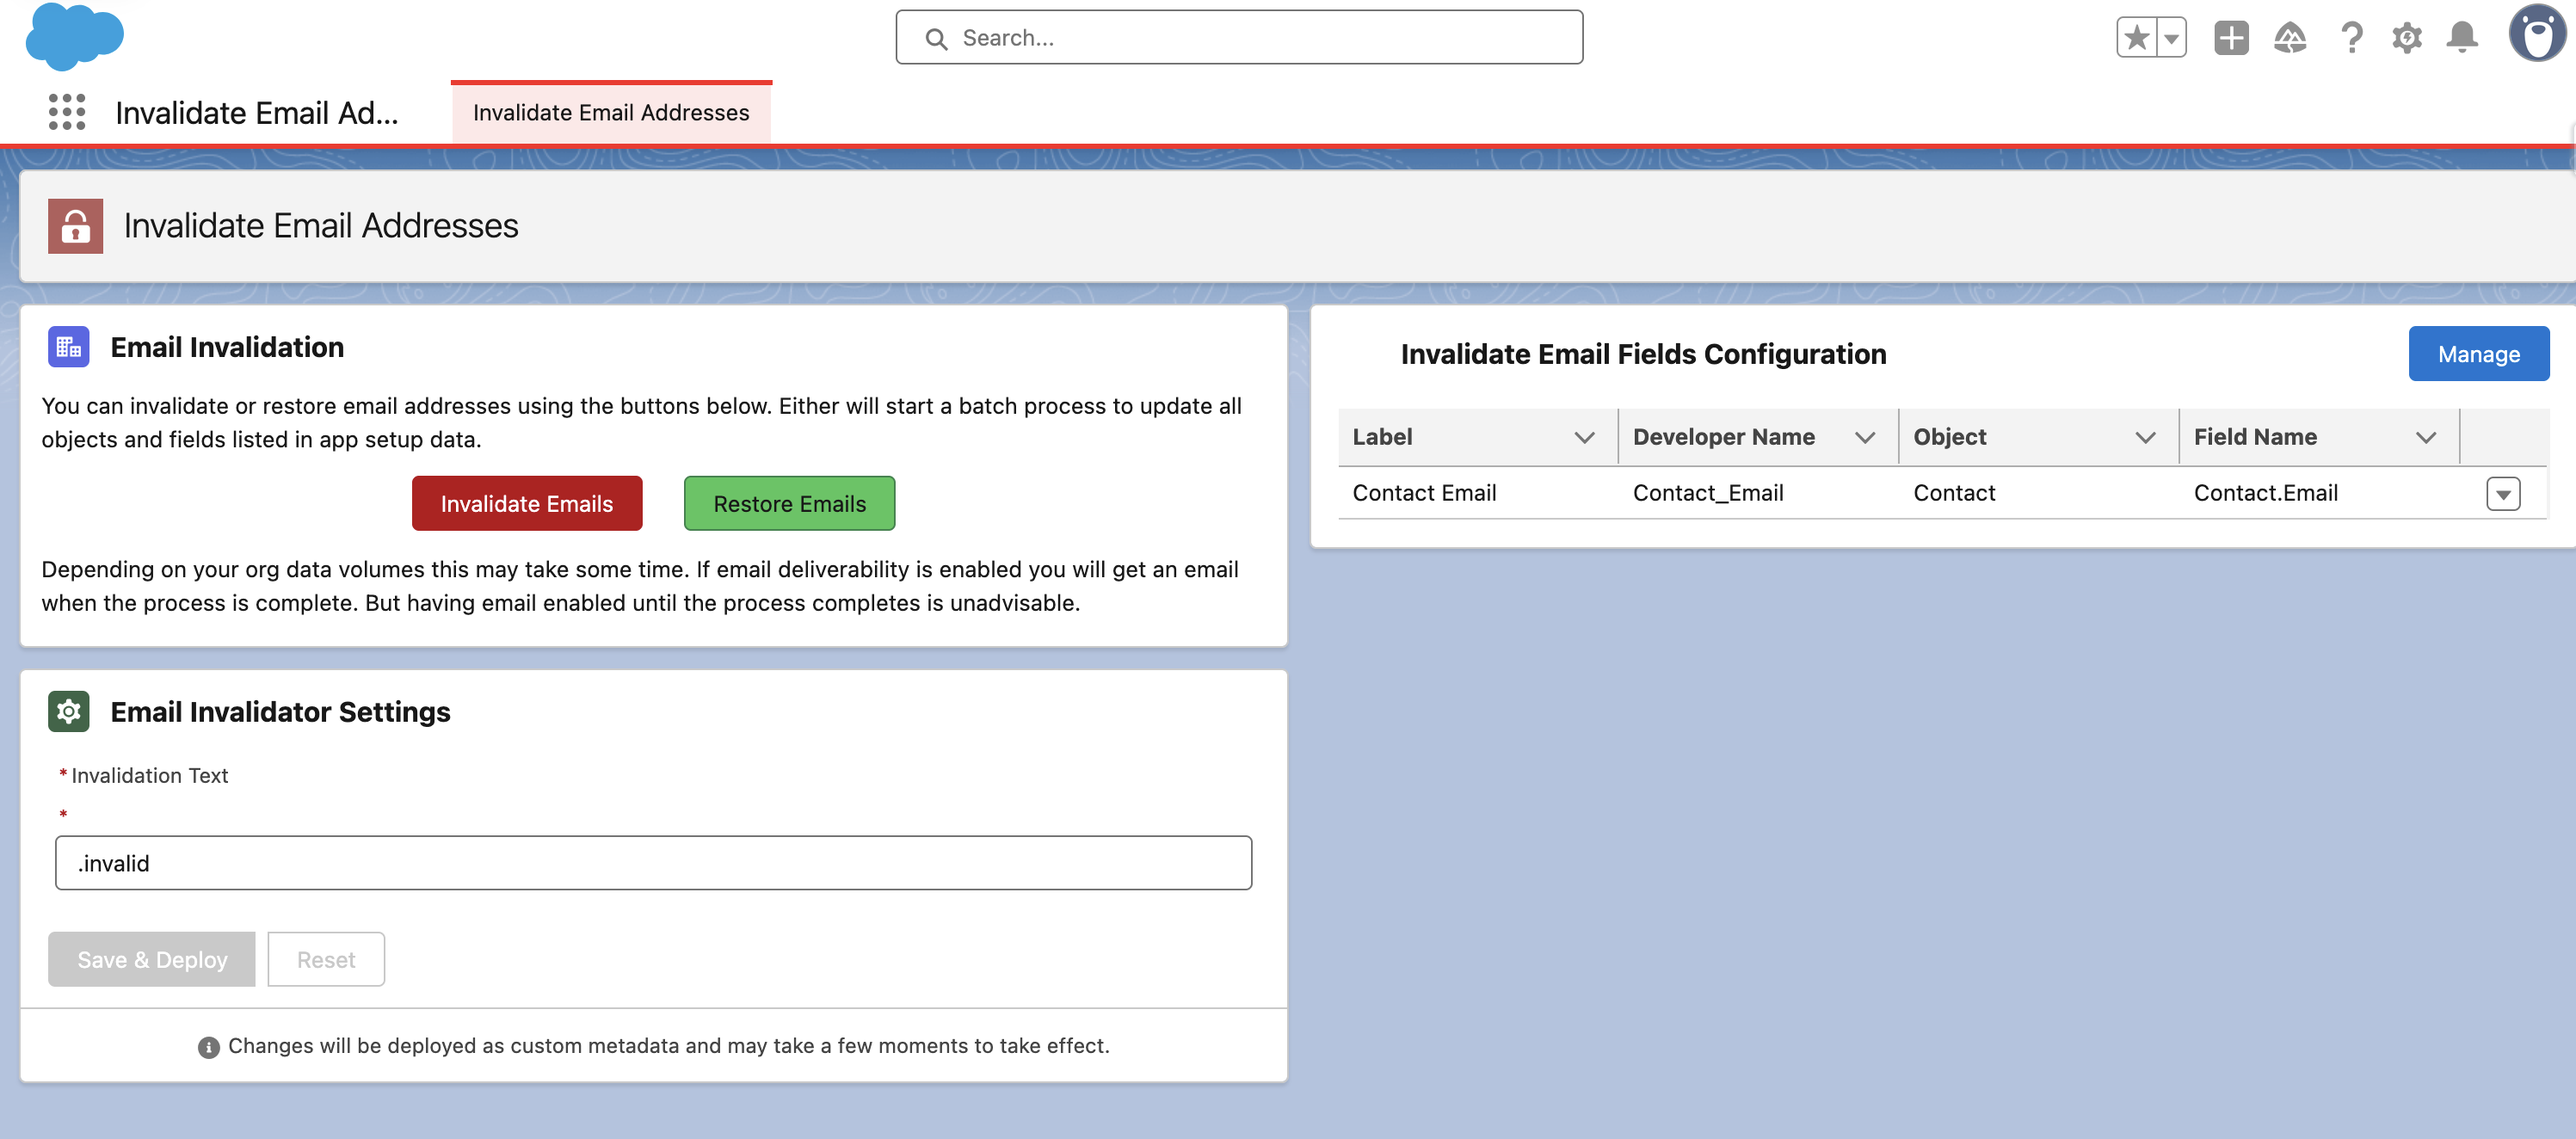
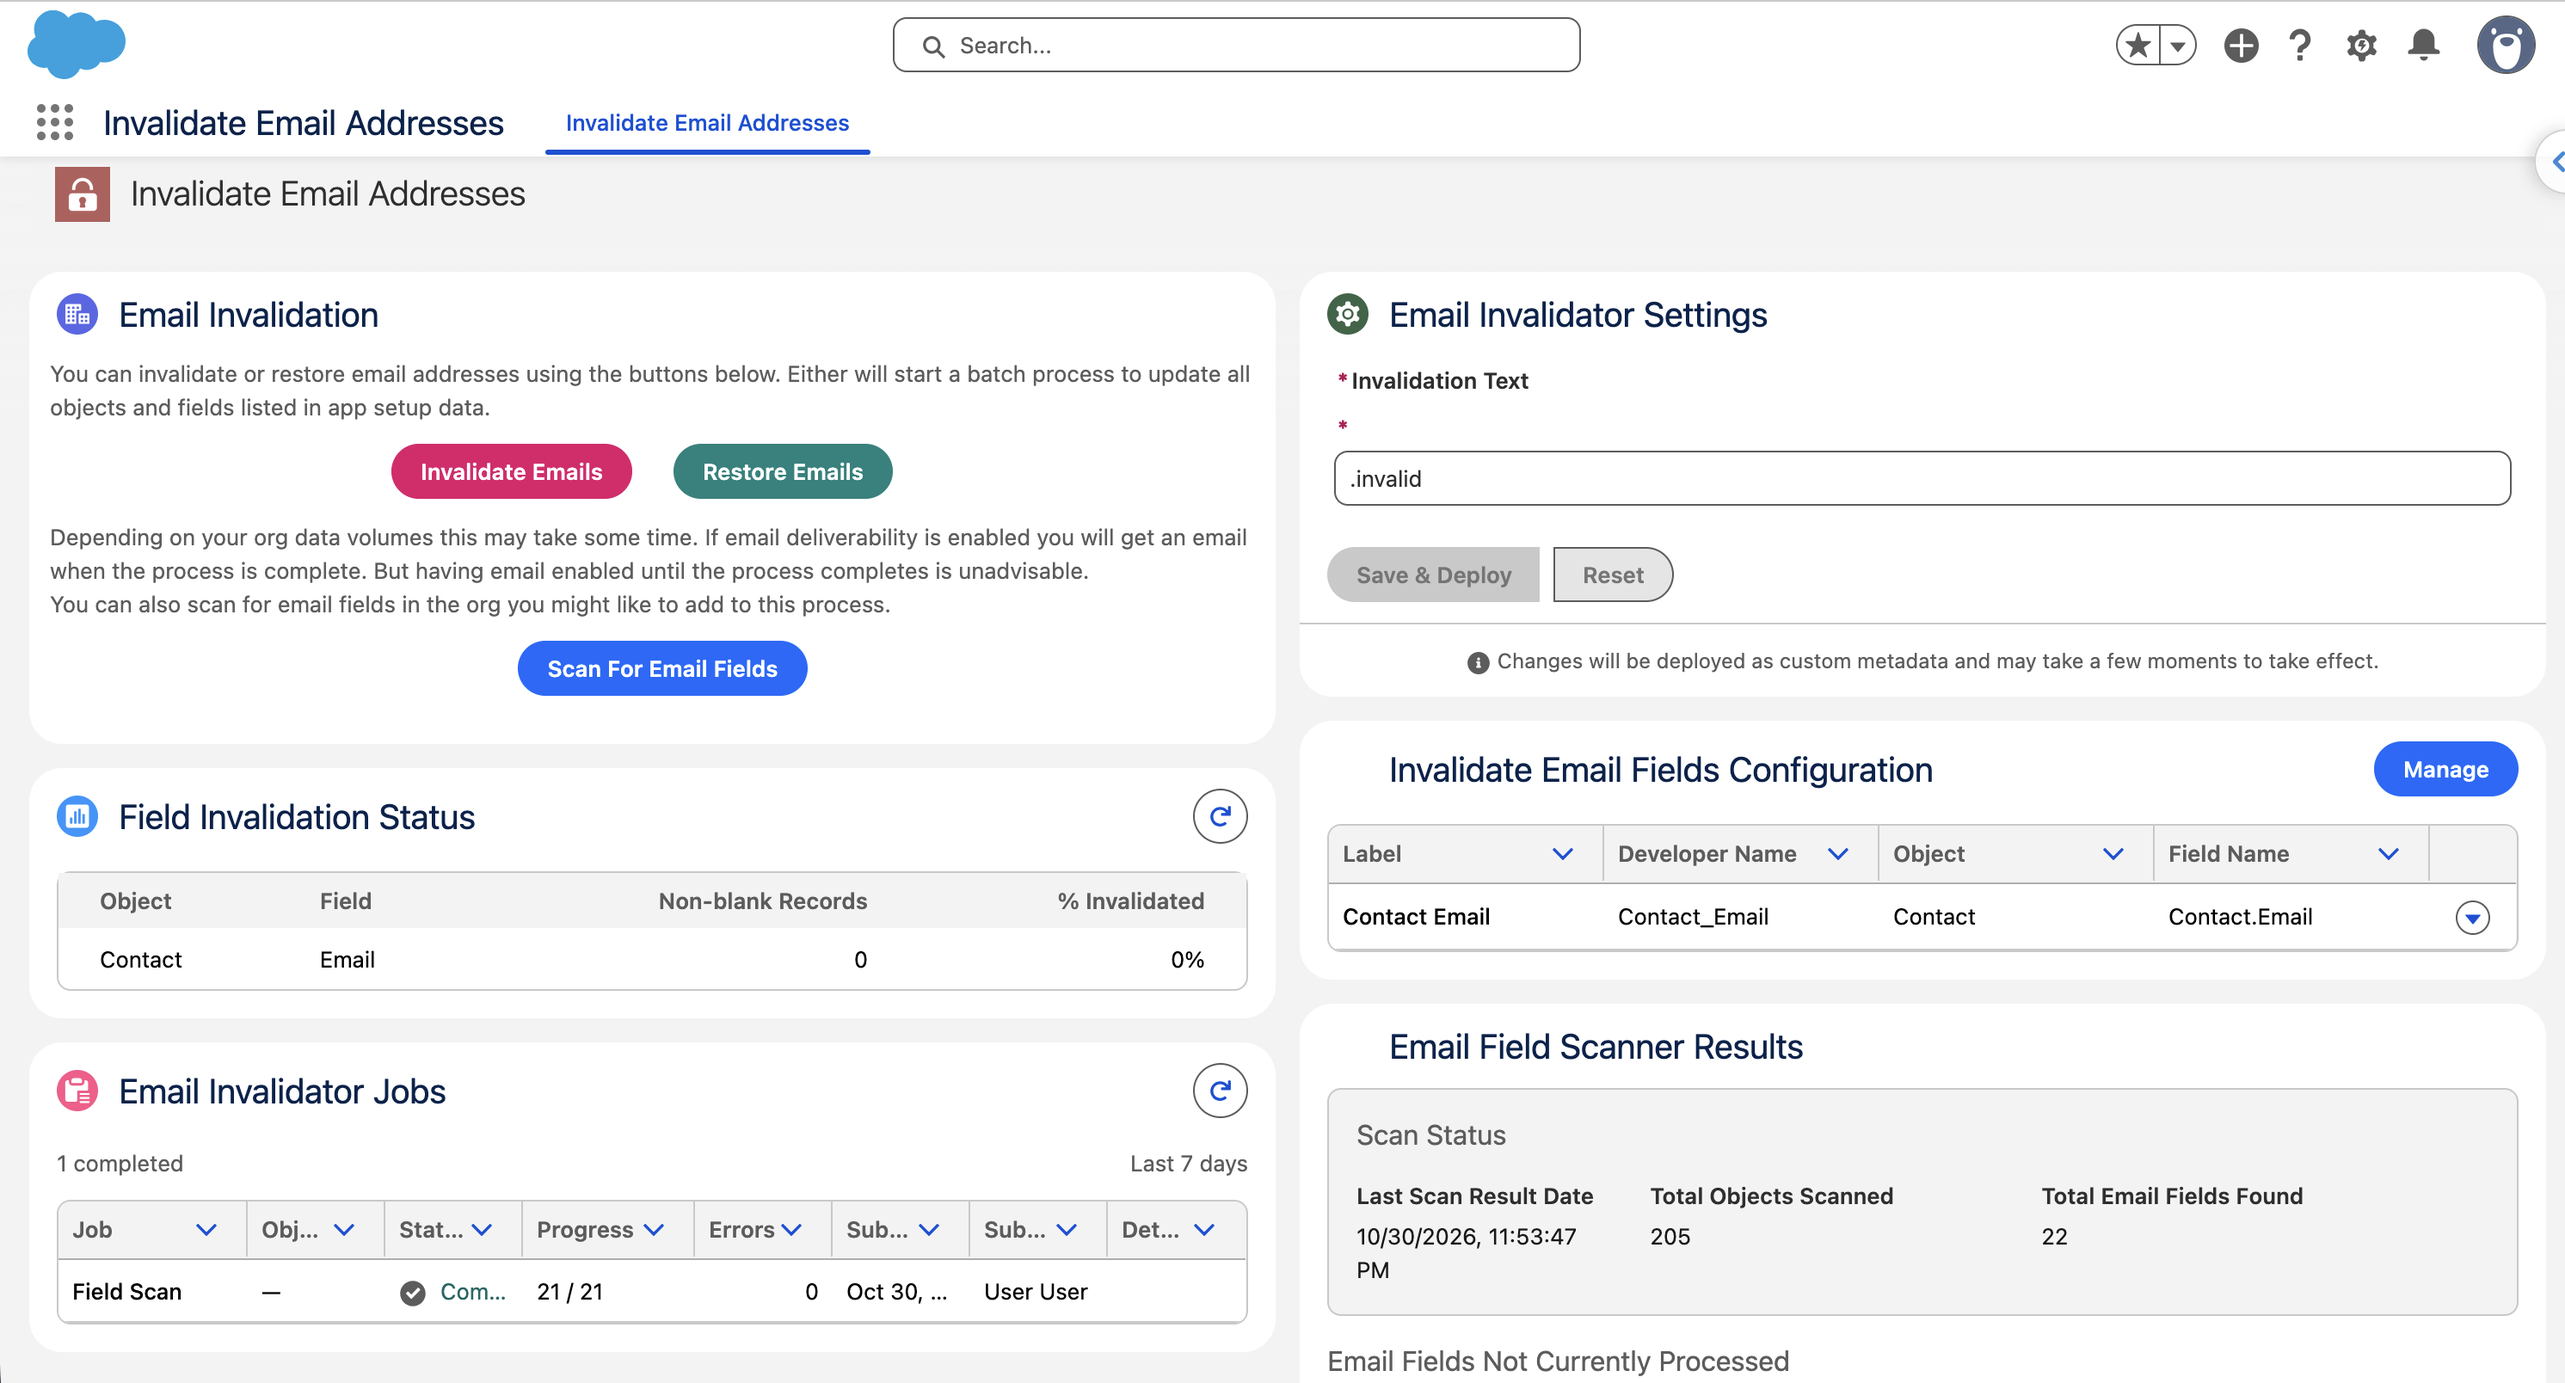
Add full installation and setup instructions (#6)
Expand the README Installation section with prerequisites, choosing an
org, deploy and permission set steps, field and settings setup, and
running the process. Note that the sandbox post copy class must be in
production. Update the app screenshot.

diff --git a/README.md b/README.md
@@ -9,7 +9,67 @@ Currently this tool consists of unpackaged metadata. At some point I'll work on 
 
 ## Installation
 
-Currently this project just uses loose metadata and is not packaged. To install it, you need to clone this repo, or download its content. Then using sf cli run: `sf project deploy start`
+This project is loose metadata, not a package, so you install it by deploying the source with the Salesforce CLI.
+
+### Prerequisites
+
+- [Salesforce CLI](https://developer.salesforce.com/tools/salesforcecli) (`sf`).
+- [Git](https://git-scm.com/), or download this repository as a zip file.
+- A user in the target org who can deploy metadata, such as a System Administrator.
+
+### Choose an org
+
+- **A sandbox** if you only want to invalidate emails in that sandbox.
+- **Production** if you want the [Sandbox Post Copy Process](#sandbox-post-copy-process) to run when you create or refresh sandboxes. Sandboxes copy their metadata from production, so the class has to be in production first. Nothing runs in production unless someone starts it.
+
+### Deploy
+
+1. Clone the repository:
+
+   ```sh
+   git clone https://github.com/acrosman/SalesforceInvalidateEmail.git
+   cd SalesforceInvalidateEmail
+   ```
+
+2. Log in to the org and give it an alias. For a sandbox add `--instance-url https://test.salesforce.com`:
+
+   ```sh
+   sf org login web --alias invalidator-target
+   ```
+
+3. Deploy the source. Production deploys must run the Apex tests, so add `--test-level RunLocalTests` there:
+
+   ```sh
+   sf project deploy start --source-dir force-app --target-org invalidator-target
+   ```
+
+4. Assign the Invalidate Emails permission set to each user who will run the tool (see [Permission Sets](#permission-sets)):
+
+   ```sh
+   sf org assign permset --name Invalidate_Emails --target-org invalidator-target
+   ```
+
+   Without `--on-behalf-of` this assigns it to the logged-in user. You can also assign it in Setup under Permission Sets.
+
+The deploy includes a field record for `Contact.Email` and the `Invalidation_Text` setting set to `.invalid`. Deploying again later resets those two records to the values in this repository.
+
+### Set up
+
+1. Open the app launcher and search for `Invalidate Email` to open the Invalidate Email Addresses app.
+2. Choose the email fields to invalidate. `Contact.Email` is included. To add more fields, either:
+   - Click **Scan For Email Fields**. When the scan job finishes, the Email Field Scanner Results card lists email fields that aren't configured yet. Select the ones you want and click **Include Selected Fields**.
+   - Or click **Manage** on the Invalidate Email Fields Configuration card, click **New**, and pick the Object and Field Name.
+3. Optionally, change the text added to each address in the Email Invalidator Settings card and click **Save & Deploy**. The default is `.invalid`.
+
+Scanned fields and settings are saved by deploying Custom Metadata, which finishes in the background. They can take a minute to appear. When you include scanned fields, you get an email once their deploy finishes.
+
+### Run it
+
+1. Check Setup > Email > Deliverability. While emails are being invalidated it is safest to set access to **System email only** or **No access**. New sandboxes start at **System email only**.
+2. Click **Invalidate Emails**. One batch job starts for each configured object.
+3. Follow the jobs in the Email Invalidator Jobs card. When they finish, the Field Invalidation Status card shows how many values in each field are invalidated.
+
+To undo it, click **Restore Emails**, which removes the invalidation text from the configured fields.
 
 ## Main App
 
@@ -46,6 +106,8 @@ Users who only need to build or run flows that use the Invalidate All Configured
 There is also a SandboxPostCopy class you can use to have the process run as soon as a Sandbox refresh or create completes. This is only useful in a full or partial copy sandbox.
 
 When you create a sandbox there is a field that allows you to indicate classes you want run after the process completes. Enter `InvalidateEmailSandboxPostCopy` and the process defined here will run.
+
+The class and the field records must be deployed to production for this to work, because the new sandbox gets its metadata from production. It invalidates the fields configured in production when the sandbox was copied.
 
 ## Automated Testing
 
